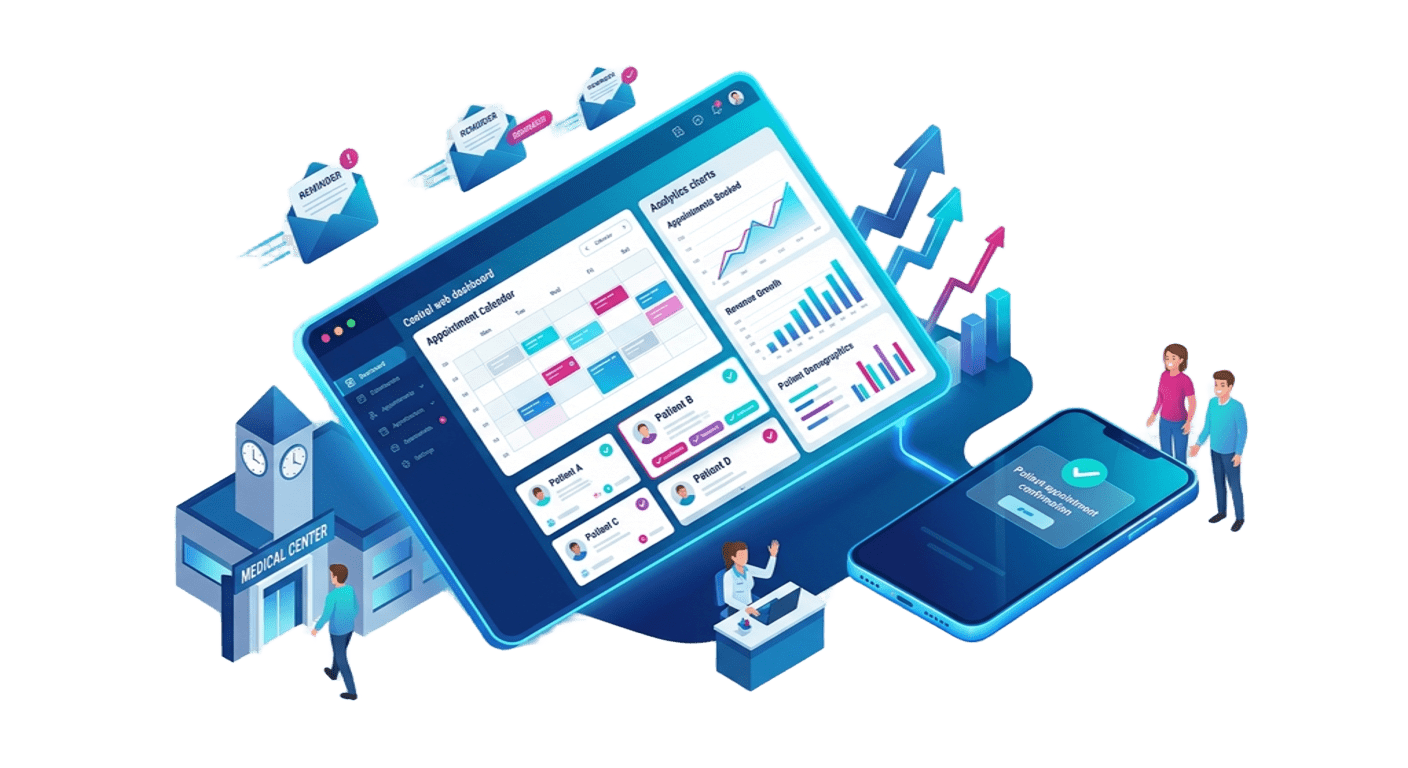
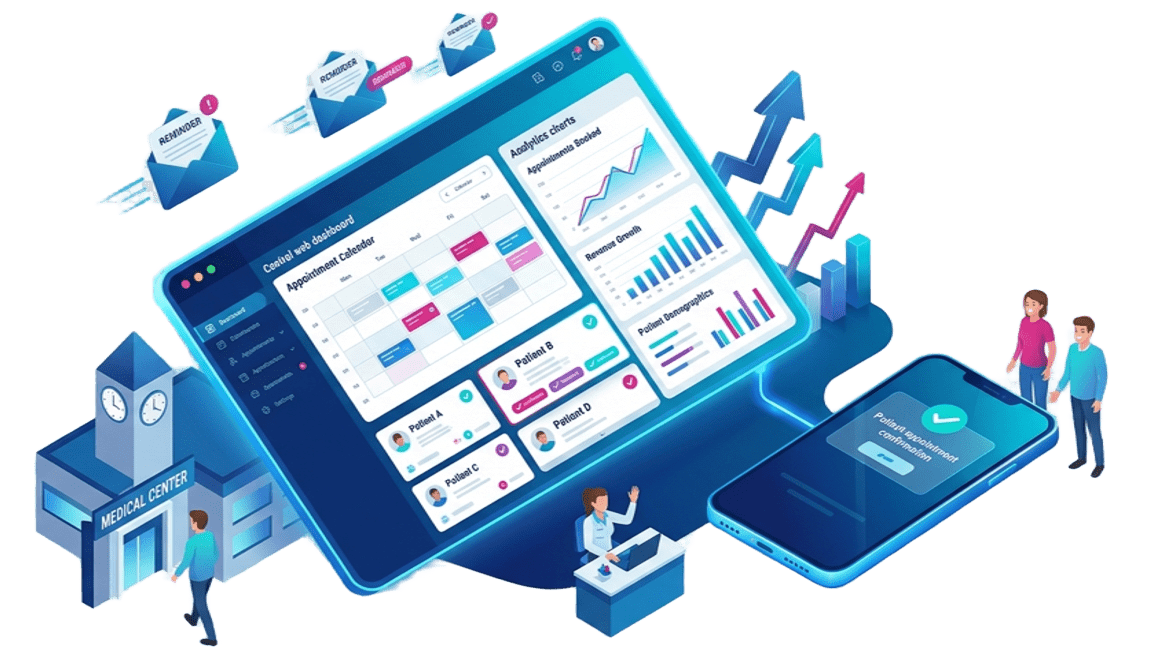
push 7: se cambio la imagen a una mas cuadrada para que resalte mas

diff --git a/index.html b/index.html
@@ -78,7 +78,7 @@
             </div>
           </div>
           <div class="col-lg-6 order-1 order-lg-2 hero-img" data-aos="zoom-out" data-aos-delay="200">
-            <img src="assets/img/hero-sanelia-booking.png" class="img-fluid animated" alt="Sanelia Software booking interface">
+            <img src="assets/img/hero-sanelia-booking-v2.png" class="img-fluid animated" alt="Sanelia Software booking interface">
           </div>
         </div>
       </div>

diff --git a/assets/css/main.css b/assets/css/main.css
@@ -812,6 +812,11 @@ section,
 .hero .animated {
   animation: up-down 2s ease-in-out infinite alternate-reverse both;
 }
+.hero .hero-img img {
+  width: 98%;
+  display: block;
+  margin: 0 auto;
+}
 @media (max-width: 640px) {
   .hero h1 {
     font-size: 28px;

diff --git a/assets/scss/sections/_hero.scss b/assets/scss/sections/_hero.scss
@@ -71,6 +71,12 @@
     animation: up-down 2s ease-in-out infinite alternate-reverse both;
   }
 
+  .hero-img img {
+    width: 98%;
+    display: block;
+    margin: 0 auto;
+  }
+
   @media (max-width: 640px) {
     h1 {
       font-size: 28px;
